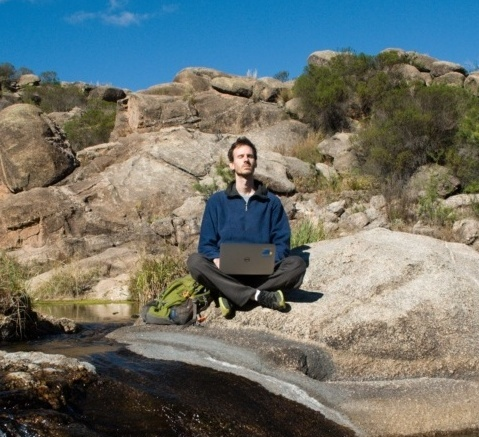
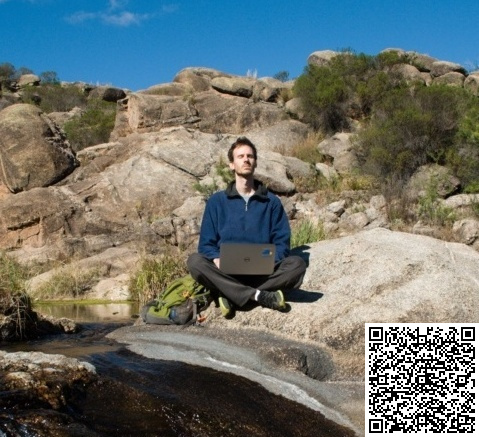
Actualización de Stories

Changed region(s): [[0.7599, 0.714, 1.0, 1.0]]

diff --git a/web/stories/remeras.rst b/web/stories/remeras.rst
@@ -6,6 +6,7 @@
 .. link: 
 .. description: 
 .. type: text
+.. preview: remera.jpg
 
 .. raw:: html
 
@@ -17,17 +18,10 @@
    </style>
 
 
-.. class:: alert alert-warning
-
-   ¡**Se agotaron todas las remeras** en la `SciPyLA
-   <http://elblogdehumitos.com.ar/posts/scipyla-2015>`_! Igualmente
-   anotate, ya que tenemos ganas de hacer más en un futuro cercano...
-
-
 .. class:: lead align-center
 
-   ¿Hace cuánto que estabas esperando la remera de
-   :doc:`Argentina en Python <index>`?
+   ¿Hace cuánto que estabas esperando la remera de :doc:`Argentina en
+   Python <index>`?
 
    Hoy tengo una buena noticia para darte: **¡las estamos haciendo!**
 
@@ -41,12 +35,12 @@ El diseño elegido en esta oportunidad [#]_ es el siguiente:
 .. image:: remera.jpg
    :align: center
 
-El costo de la remera es de **$ 100** *(Gs 50.000 / USD 10)*. *La
-compra de tu remera nos ayuda a seguir viajando, compartiendo el
-conocimiento y acercando a más gente a la programación.*
+El costo de la remera es de **$ 150**. *La compra de tu remera nos
+ayuda a seguir viajando, compartiendo el conocimiento y acercando a
+más gente a la programación.*
 
 Si querés tener una remera del proyecto porque te parece buena onda,
-porque te gusta el diseño o porque simplemente te sobran $ 100 y no
+porque te gusta el diseño o porque simplemente te sobran $ 150 y no
 sabés dónde tirarlos: ¡estás en el lugar adecuado!
 
 Hacé click en el botón "*¡Quiero una remera!*" y completá el
@@ -56,15 +50,15 @@ el modo de entrega.
 .. raw:: html
 
    <div style="text-align: center; margin-top: 25px; margin-bottom: 25px;">
-     <a class="btn btn-lg btn-primary" target="_blank" href="https://docs.google.com/forms/d/1AnigBeSf_FlWBeL1Qftnwl8XA_5O8J0wBi4mfz6rUyA/viewform">
+     <a class="btn btn-lg btn-primary" target="_blank" href="http://goo.gl/forms/k3Tf9b2jMX">
        ¡Quiero una remera!
      </a>
    </div>
 
-¡No te desanimes, vamos a estar en Argentina, Paraguay, Bolivia y más
-países de sudamérica! Consultá el :doc:`mapa de ruta
-<donde-esta-humitos>` y ponete en contacto con nosotros para coordinar
-fechas de entrega.
+Vamos a entregar las remeras *personalmente* en la `PyCon Argentina
+Mendoza 2015 <http://ar.pycon.org/>`_ durante los días 12, 13 y 14 de
+Noviembre.
+
 
 ----
 

diff --git a/web/stories/home.en.rst b/web/stories/home.en.rst
@@ -77,7 +77,7 @@ How?
        </div>
      </a>
 
-     <a class="home-sections" href="/novedades/">
+     <a class="home-sections" href="/galeria/">
        <div class="col-md-4">
 	 <p style="text-align: center"><i class="fa fa-picture-o fa-5x"></p>
 	 <h2 style="text-align: center">Photos</h2>
@@ -98,7 +98,7 @@ How?
        <div class="col-md-4">
 	 <p style="text-align: center"><i class="fa fa-mortar-board fa-5x"></p>
 	 <h2 style="text-align: center">I want to learn Python</h2>
-	 <p style="text-align: center">Tutorials and documentation that will help you to learn Python in a autodidact way (Spanish only).</p>
+	 <p style="text-align: center">Tutorials and documentation that will help you to learn Python in a autodidact way.</p>
        </div>
      </a>
 
@@ -119,6 +119,47 @@ How?
      </a>
 
    </div>
+
+   <hr style="border-width: 10px 0 0;">
+
+.. raw:: html
+
+
+	 <div class="row">
+
+	  <div class="col-sm-6 col-md-4">
+	    <div class="thumbnail">
+	      <a href="/galeria/django-girls-mendoza/">
+		<img style="width: 340px; height: 255px;" src="/galeria/django-girls-mendoza/IMG_20151112_162414.jpg" alt="Django Girls Mendoza"></a>
+	      <div class="caption">
+		<h3>Django Girls Mendoza</h3>
+		<p>Workshop Django Girls</p>
+	      </div>
+	    </div>
+	  </div>
+
+	  <div class="col-sm-6 col-md-4">
+	    <div class="thumbnail">
+	      <a href="/galeria/django-girls-puno/">
+		<img style="width: 340px; height: 255px;" src="/galeria/django-girls-puno/DSC_0740_01.jpg" alt="Django Girls Puno"></a>
+	      <div class="caption">
+		<h3>Django Girls Puno</h3>
+		<p>Workshop Django Girls</p>
+	      </div>
+	    </div>
+	  </div>
+
+	  <div class="col-sm-6 col-md-4">
+	    <div class="thumbnail">
+	      <a href="/galeria/django-girls-santacruz/">
+		<img style="width: 340px; height: 255px;" src="/galeria/django-girls-santacruz/IMG_20150829_104112.jpg" alt="Django Girls Santa Cruz"></a>
+	      <div class="caption">
+		<h3>Django Girls Santa Cruz</h3>
+		<p>Workshop Django Girls</p>
+	      </div>
+	    </div>
+	  </div>
+	 </div>
 
 .. class:: lead align-center
 

diff --git a/web/stories/home.rst b/web/stories/home.rst
@@ -9,11 +9,6 @@
 .. type: text
 .. template: notitle.tmpl
 
-.. class:: alert alert-success
-
-   **Novedades**: ¡Estamos :doc:`llegando a Perú <llegando-a-peru>`!
-
-
 .. raw:: html
 
    <link rel="stylesheet" href="//maxcdn.bootstrapcdn.com/font-awesome/4.3.0/css/font-awesome.min.css">
@@ -130,25 +125,25 @@ formas de vida.
 
 .. raw:: html
 
-
 	 <div class="row">
+
 	  <div class="col-sm-6 col-md-4">
 	    <div class="thumbnail">
-	      <a href="/galeria/introduccion-a-python-en-cochabamba/">
-		<img style="width: 340px; height: 255px;" src="/galeria/introduccion-a-python-en-cochabamba/DSC_9307_01.jpg" alt="Introducción a Python en Cochabamba"></a>
+	      <a href="/galeria/django-girls-mendoza/">
+		<img style="width: 340px; height: 255px;" src="/galeria/django-girls-mendoza/IMG_20151112_162414.jpg" alt="Django Girls Mendoza"></a>
 	      <div class="caption">
-		<h3>Introducción a Python en Cochabamba</h3>
-		<p>Charla Introducción a Python en Cochabamba</p>
+		<h3>Django Girls Mendoza</h3>
+		<p>Workshop Django Girls</p>
 	      </div>
 	    </div>
 	  </div>
 
 	  <div class="col-sm-6 col-md-4">
 	    <div class="thumbnail">
-	      <a href="/galeria/django-girls-cochabamba/">
-		<img style="width: 340px; height: 255px;" src="/galeria/django-girls-cochabamba/DSC_9433_01.jpg" alt="Django Girls Cochabamba"></a>
+	      <a href="/galeria/django-girls-puno/">
+		<img style="width: 340px; height: 255px;" src="/galeria/django-girls-puno/DSC_0740_01.jpg" alt="Django Girls Puno"></a>
 	      <div class="caption">
-		<h3>Django Girls Cochabamba</h3>
+		<h3>Django Girls Puno</h3>
 		<p>Workshop Django Girls</p>
 	      </div>
 	    </div>
@@ -165,7 +160,7 @@ formas de vida.
 	    </div>
 	  </div>
 
-	  </div>
+	 </div>
 
 .. class:: lead align-center
 

diff --git a/web/stories/historia-prensa.rst b/web/stories/historia-prensa.rst
@@ -99,3 +99,31 @@ Año 2015
 * Agosto - `Taller de programación para mujeres: Django Girls
   <http://www.lostiempos.com/diario/actualidad/vida-y-futuro/20150821/taller-de-programacion-para-mujeres-django-girls_312667_692494.html>`_
 
+* Septiembre - `Con esfuerzo y contactando con la gente apropiada no
+  hay nada que no se pueda lograr
+  <http://pillku.org/article/con-esfuerzo-y-contactando-con-la-gente-apropiada-/>`_
+
+* Septiembre - `Entrevista a Manuel Kaufmann - Argentina en Python
+  <https://goblinrefuge.com/mediagoblin/u/danicotillas/m/entrevista-a-manuel-kaufmann-argentina-en-python/>`_
+
+* Octubre - `PyDay Recap: PyDay y otras yerbas
+  <http://juanfgs.eosweb.info/post/56>`_
+
+* Noviembre - `Helping to spread OSM in South America
+  <http://www.openstreetmap.org/user/wille/diary/36225>`_
+
+* Noviembre - `El taller de Django Girls y de Python para iniciantes
+  @pyconar @argenpython
+  <http://radiocut.fm/audiocut/el-taller-de-django-girls-y-de-python-para-iniciantes-pyconar-argenpython/>`_
+
+* Noviembre - `Vamos a comernos el mundo y [Argentina] en Python
+  <http://pybonacci.org/2015/11/08/vamos-a-comernos-el-mundo-y-argentina-en-python/>`_
+
+.. http://blog.openstreetmap.de/blog/2015/09/wochennotiz-nr-270/
+.. http://www.weeklyosm.eu/archives/5056
+.. http://pyday.lugli.org.ar/
+.. http://createsend.com/t/i-361AF48ED4423E63
+.. http://faccionlatina.org/project/la-internet-se-escribe-en-femenino/
+.. http://wiki.huayra.conectarigualdad.gob.ar/index.php/Python
+.. http://www.martadero.org/noticias/noticia.html&id_noticia=169
+

diff --git a/web/stories/como-colaborar.rst b/web/stories/como-colaborar.rst
@@ -63,7 +63,7 @@ Lista de deseos / Wishlist
 .. contents:: Contenido
    :local:
 
-:Actualizado: 10 de Agosto de 2015
+:Actualizado: 7 de Octubre de 2015
 
 
 .. raw:: html
@@ -128,27 +128,6 @@ Cusco, Perú y por lo que `estuve averiguando
 rondan los USD 400 los pasajes de ida y vuelta. Esto creo que es una
 oportunidad para las empresas de ser Sponsor del proyecto y *llevar a
 humitos a la PyCon 2015*.
-
-
-Tickets de avión para PyCon España 2015
-~~~~~~~~~~~~~~~~~~~~~~~~~~~~~~~~~~~~~~~
-
-A modo de «wishlist**2», me gustaría asistir a `PyCon España 2015 en
-Valencia <http://2015.es.pycon.org/es/>`_ que está pegadito de
-Pycon Argentina.
-
-Como está muy cerca de PyCon Argentina, es probable que convenga
-comprar los pasajes desde alguna ciudad de Argentina (Buenos Aires,
-Mendoza, etc). Los pasajes de avión están cerca de USD 800 ida y
-vuelta.
-
-Digo que es está en la *lista de deseos al cuadrado* porque es
-demasiado pedir ya. Sin embargo, voy a ver cómo estoy de plata en
-cuanto a lo personal y lo que mi familia me pueda ayudar ya que
-considero que ir a España y conocer la comunidad de Python del otro
-lado del emisferio me va a ayudar muchísimo a entender cuestiones
-sociales, probarlas en Latinoamérica y también empezar a preparar el
-terreno cuando crucemos el Atlántico con Errante.
 
 
 Traductor

diff --git a/web/stories/eventos-charlas.rst b/web/stories/eventos-charlas.rst
@@ -18,6 +18,7 @@ Argentina en Python
 :Slides: 
    * `PyConAr 2014, Rafaela, Santa Fe, Argentina <argentina-en-python_pyconar2014_humitos.pdf>`_
    * `PyDay Formosa, Formosa, Argentina 2014 <argentina-en-python_pyday_formosa_2015_humitos.pdf>`_
+   * `PyDay Litoral, Santa Fe, Argentina 2015 <argentina-en-python_pyday_litoral_2015.pdf>`_
 :Videos: `PyConAr 2014, Rafaela, Santa Fe, Argentina
          <https://www.youtube.com/watch?v=eNQ9O_3ySs8>`__
 :Descripción: En Enero de 2014 empecé a viajar con un proyecto
@@ -119,3 +120,10 @@ pilas-engine: aprende a programar, ¡jugando!
    principales del framework con la idea de estimular la investigación
    y la curiosidad en los asistentes; mostrando algunas de sus
    características más novedosas y sorprendentes.
+
+
+----
+
+PyFi Spot al rescate
+--------------------
+

diff --git a/web/stories/historia.rst b/web/stories/historia.rst
@@ -39,8 +39,8 @@ Hoy en día se está empujando una versión muy similar a `la última
 propuesta`_ en la que se trabajó a los inicios del proyecto. En
 resumen, consistía en dar charlas, cursos y talleres gratuitamente de
 forma itinerante a lo largo de todo el país. Además, ¡ya hemos
-visitado otros países, como ser Paraguay, Bolivia y queremos llegar a
-Perú próximamente!
+visitado otros países, como ser Paraguay, Bolivia, Perú y queremos
+llegar a Ecuador próximamente!
 
 .. _la última propuesta: argentina-en-python__proyecto_original.pdf
 

diff --git a/web/stories/nanogallery.rst b/web/stories/nanogallery.rst
@@ -1,0 +1,37 @@
+.. title: nanoGALLERY Example
+.. slug: nanogallery
+.. date: 2015-09-12 13:09:57 UTC-03:00
+.. tags: 
+.. category: 
+.. link: 
+.. description: 
+.. type: text
+
+
+Nanogallery jQuery example: http://nanogallery.brisbois.fr
+
+.. code:: rst
+
+   .. nanogallery::
+      :theme: light
+      :maxItemsPerLine: 3
+
+      0.jpg
+      1.jpg
+      2.jpg
+      3.jpg
+      4.jpg
+      5.jpg
+
+
+
+.. nanogallery::
+   :theme: light
+   :maxItemsPerLine: 3
+
+   0.jpg
+   1.jpg
+   2.jpg
+   3.jpg
+   4.jpg
+   5.jpg

diff --git a/web/stories/contacto.en.rst b/web/stories/contacto.en.rst
@@ -34,7 +34,7 @@ ways, but I'm not really pending on them:
 
 :Telegram: @humitos
 
-:Móv. Perú: +51 999077870
+:Cell Perú: +51 999077870
 
 :Cell Bolivia: +591 68381678
 
@@ -48,3 +48,9 @@ ways, but I'm not really pending on them:
 
 If you want to know more about me, you can also `visit my personal
 blog <http://elblogdehumitos.com.ar/>`_.
+
+
+.. admonition:: QR Code
+
+   Also, you can scan the QR code with your smartphone and add my
+   contact to your contacts in seconds.

diff --git a/web/stories/eventos-pasados.rst b/web/stories/eventos-pasados.rst
@@ -9,6 +9,9 @@
 Eventos pasados
 ---------------
 
+* 24-10-2015: Charla sobre PyFi Spot en Buenos Aires Meetup
+* 17-10-2015: Charla sobre Argentina en Python en #PyDayLitoral
+* 03-10-2015: Taller Django Girls en Puno
 * 29-08-2015: Taller Django Girls en Santa Cruz
 * 22-08-2015: `Taller Django Girls en Cochabamba
   <http://elblogdehumitos.com.ar/posts/django-girls-tecnologia-python-mujeres/>`_

diff --git a/web/stories/donaciones-medios.rst b/web/stories/donaciones-medios.rst
@@ -33,6 +33,8 @@ Transferencia desde otros países
 :Bank: Banco República Oriental 
        del Uruguay
 
+:Bank Address: 18 de Julio 1047, Paysandú, Uruguay
+
 :Account Name: Manuel Kaufmann
 
 :Account Number: 036-0523426
@@ -65,6 +67,7 @@ Bitcoin
 
 .. image:: bitcoin.png
    :target: https://bitex.la/donate/argentina-en-python
+   :class: islink
 
 (hacé click en la imagen para donar)
 

diff --git a/web/stories/donaciones-medios.en.rst b/web/stories/donaciones-medios.en.rst
@@ -33,6 +33,8 @@ Bank Transfer from other countries
 :Bank: Banco República Oriental 
        del Uruguay
 
+:Bank Address: 18 de Julio 1047, Paysandú, Uruguay
+
 :Account Name: Manuel Kaufmann
 
 :Account Number: 036-0523426
@@ -65,6 +67,7 @@ Bitcoin
 
 .. image:: bitcoin.png
    :target: https://bitex.la/donate/argentina-en-python
+   :class: islink
 
 (click on the image to donate)
 
